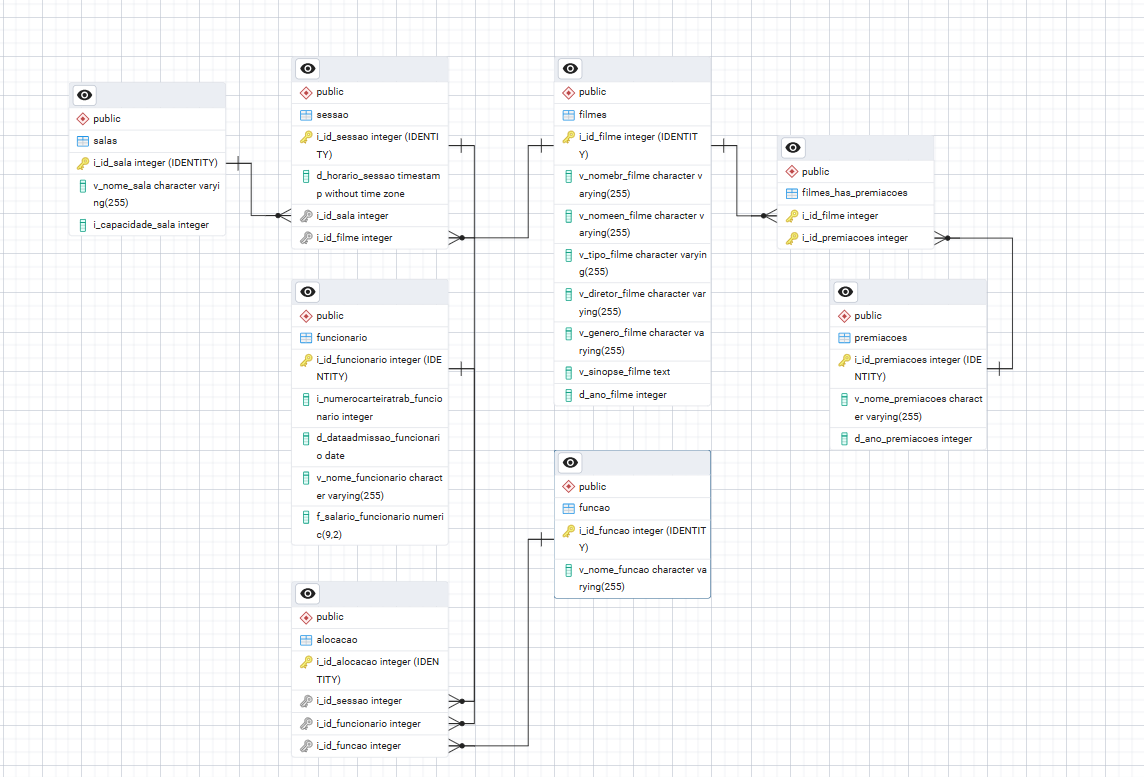
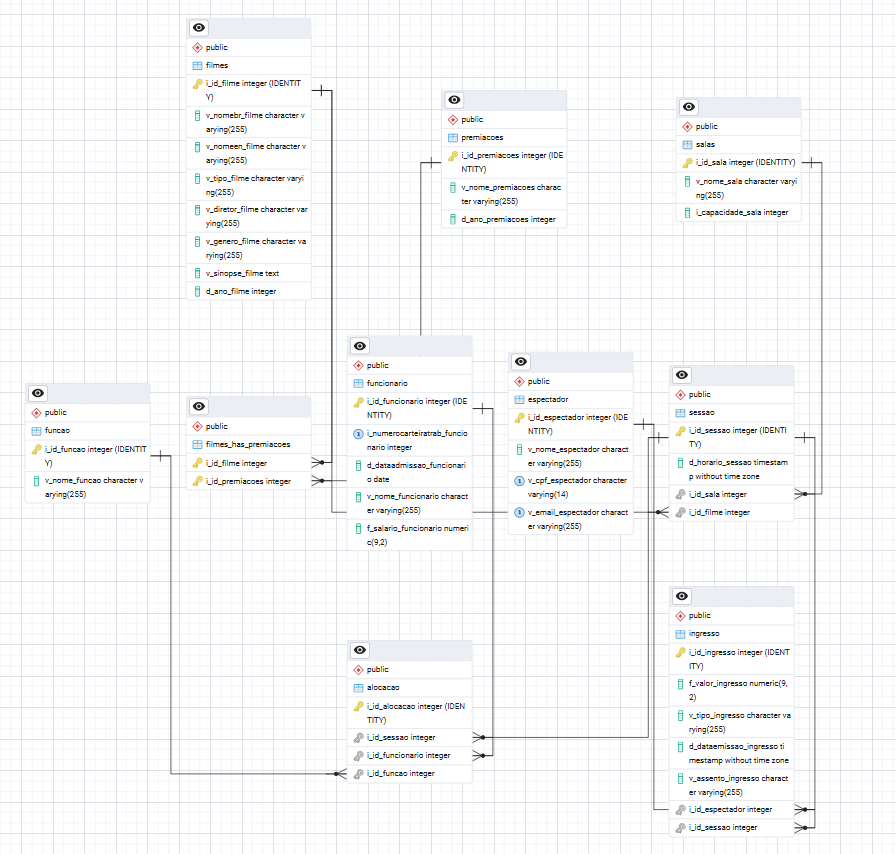
modificação all

diff --git a/cinemaX-management-bd/docs/01_contexto-do-projeto.md b/cinemaX-management-bd/docs/01_contexto-do-projeto.md
@@ -1,2 +1,2 @@
 # Mini Mundo — CinemaX
-Um cinema possui várias salas de cinema, as quais exibem filmes em horários diversos. O cinema tem interesse em saber quais filmes estão atualmente em cartaz, em que salas e em que horários.Cada sala possui um nome (único) e capacidade (número de lugares). Os filmes são caracterizados por seu nome em português, nome na língua original (se estrangeiro), diretor, ano de lançamento, tipo, e sinopse. Não existem dois filmes com o mesmo nome (em português) e ano de lançamento. Eventualmente, podem existir para o filme premiações ou indicações para premiação (e.g. Palma de Ouro em 1987, Oscar de melhor atriz em 89, indicado para melhor filme estrangeiro em 1996), e esta informação é usada para divulgação dos filmes. Uma exibição de filme ocorre em uma dada sala e horário. Um mesmo filme pode ser exibido na mesma sala, em vários horários. Para filmes muito procurados, o cinema pode ter exibição simultâneas em várias salas (em horários simultâneos ou não). Filmes diferentes podem passar na mesma sala, desde que obviamente não no mesmo horário. O cinema só trabalha com horários fixos de filmes, os quais atualmente são: 16:00, 17:00, 18:00, 19:30, 20:00, 22:00, 24:00. A cada um destes horários está vinculado um conjunto de funcionários responsáveis pelo bom andamento das atividades do cinema naquele horário, e que desempenham uma função (ex: caixa, balas, lanterninha, bilheteiro). Cada funcionário é caracterizado pelo número da carteira da trabalho (único), nome, data de admissão e salário. Para maior satisfação dos funcionários, existe um rodízio das funções conforme o horário (ex: um mesmo funcionário pode ser caixa no horário das 16:00, e baleiro no horário das 21:00). Todo horário tem pelo menos três funcionários alocados.
+O projeto CinemaX é uma adaptação técnica de um sistema de gestão cinematográfica, projetado para gerenciar desde a logística operacional até a camada transacional de vendas. O cinema CinemaX possui diversas Salas, cada uma identificada por um nome e sua capacidade total de lugares. O catálogo de Filmes é detalhado por título em português, título original, diretor, ano de lançamento, gênero, sinopse e tipo (como 2D ou 3D). Além disso, o sistema registra as Premiações ou indicações recebidas pelos filmes para fins de divulgação. A operação central ocorre através da Sessão, que representa a exibição de um filme em uma sala específica em horários fixos (16h, 17h, 18h, 19h30, 20h, 22h e 24h), permitindo exibições simultâneas ou rodízios de filmes por sala. No âmbito operacional, cada horário de sessão possui uma Alocacao de pelo menos três Funcionarios, que são identificados por nome, CPF, número da carteira de trabalho único, data de admissão e salário. Esses funcionários desempenham uma Funcao específica (como caixa ou bilheteiro) em cada sessão, havendo um sistema de rodízio que permite ao colaborador exercer funções distintas em diferentes horários. Complementando o ciclo de negócio, o sistema gerencia o cadastro de Espectadores, coletando nome, e-mail e CPF únicos, para a venda de Ingressos. Cada ingresso emitido vincula o espectador à sessão escolhida, registrando o valor pago, a data e hora da emissão e o assento específico, limitando obrigatoriamente a categoria da entrada aos tipos 'normal', 'vip', '3d' ou '4dx' para assegurar o padrão de atendimento.
